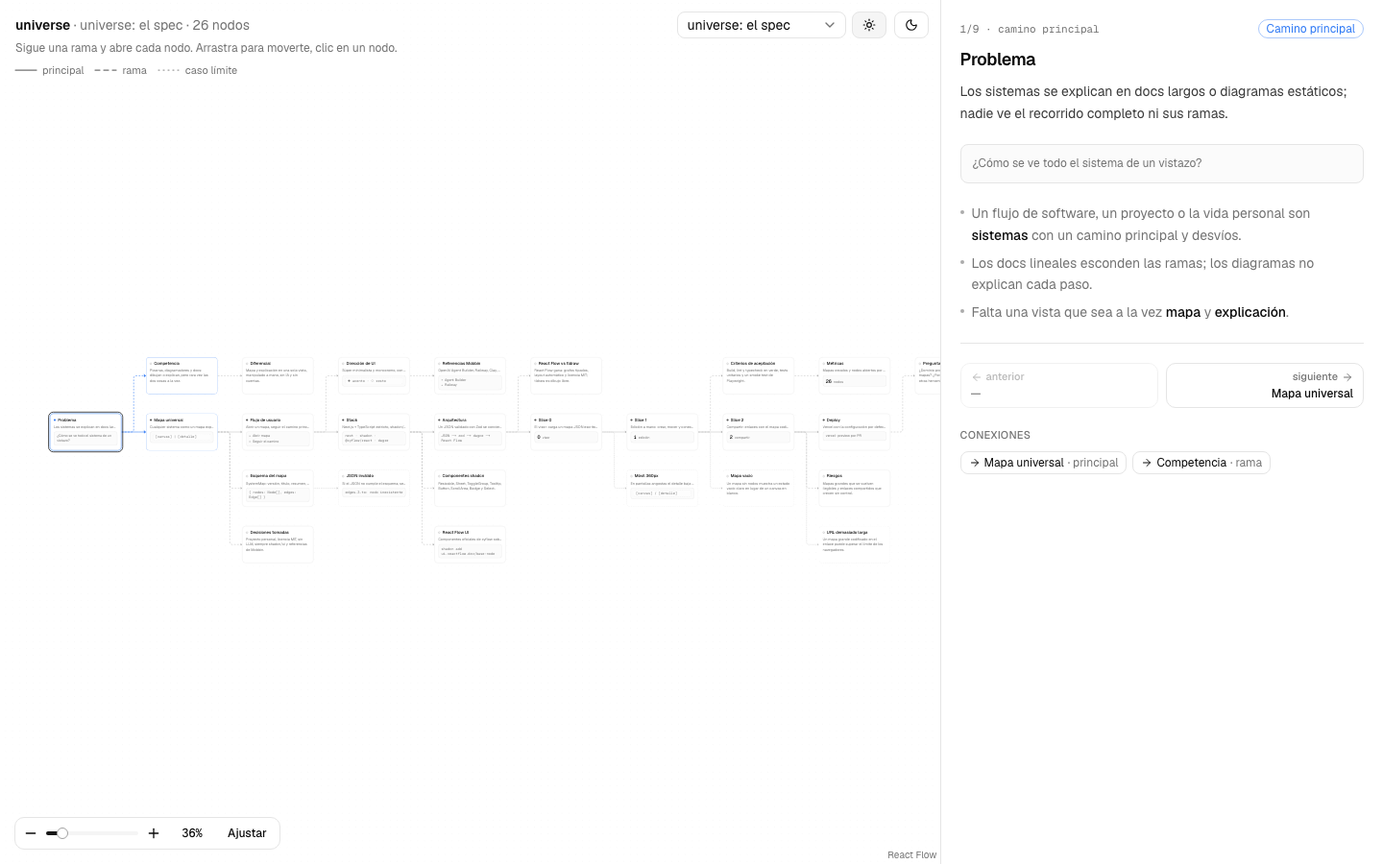
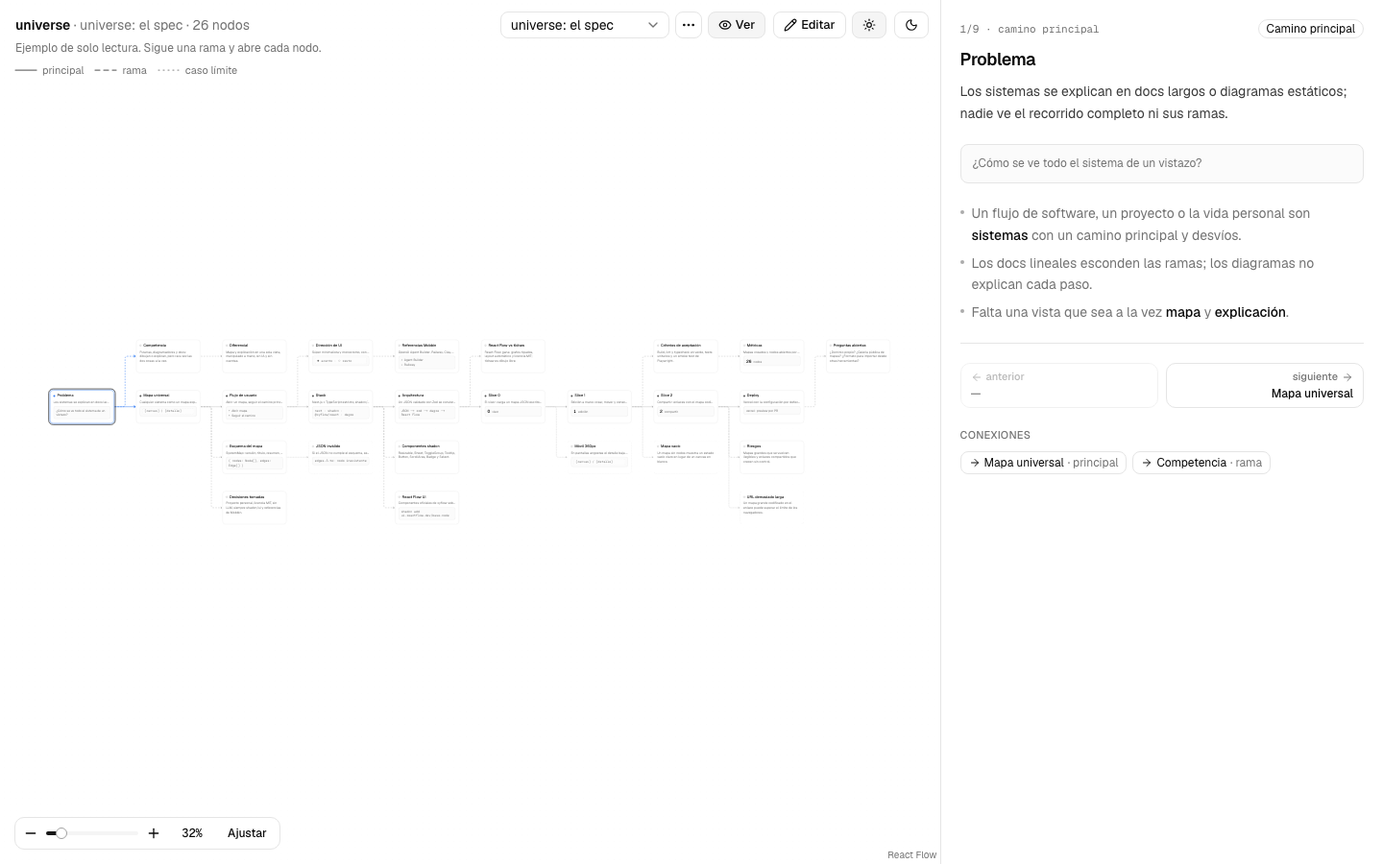
Docs: slice 1 in README, roadmap, checks and ledger; regenerate screenshots
Roadmap: slice 1 done; slice 2 is share (compressed URL), JSON import/export
and PNG export; the command palette moves to post-MVP.

diff --git a/docs/checks.md b/docs/checks.md
@@ -1,17 +1,20 @@
 # Checks
 
-Último registro: 2026-10-23, rama `slice-0-viewer` tras los arreglos de la revisión ronda 1 (HEAD `28f0eaa` más docs), macOS (arm64), Node v24.19.0, pnpm 11.22.0. Ejecutado desde un árbol limpio (`rm -rf .next test-results`), en este orden.
+Último registro: 2026-10-26, rama `slice-1-editor` (HEAD `170c2ac` más docs), macOS (arm64), Node v26.7.0, pnpm 11.22.0. Ejecutado desde un árbol limpio (`rm -rf .next test-results`), en este orden.
 
 | # | Comando | Resultado |
 | --- | --- | --- |
 | 0 | `pnpm install --frozen-lockfile` | ✅ exit 0, lockfile al día |
 | 1 | `pnpm typecheck` (`next typegen && tsc --noEmit`) | ✅ exit 0, sin errores |
 | 2 | `pnpm lint` (`eslint`) | ✅ exit 0, sin warnings |
-| 3 | `pnpm test` (`vitest run`) | ✅ 4 archivos, 32 tests pasan |
+| 3 | `pnpm test` (`vitest run`) | ✅ 6 archivos, 69 tests pasan (antes 32) |
 | 4 | `pnpm build` (`next build`) | ✅ exit 0, `/` prerenderizada como estática |
-| 5 | `PLAYWRIGHT_BROWSERS_PATH=.playwright-browsers pnpm test:e2e` (`playwright test`, sobre `next start`) | ✅ 4 tests pasan |
+| 5 | `E2E_PORT=3110 PLAYWRIGHT_BROWSERS_PATH=.playwright-browsers pnpm test:e2e` (`playwright test`, sobre `next start`) | ✅ 9 tests pasan (4 del visor, 5 del editor) |
 | 6 | Colores hardcodeados: `grep -rnE '#[0-9a-fA-F]{3,8}\b\|rgba?\(\|oklch\(\|hsl\(' src \| grep -v globals.css` | ✅ sin resultados |
-| 7 | `git status --short` después de todos los checks | ✅ vacío para archivos versionados: los tests ya no tocan `docs/screenshots/` |
+| 7 | `grep -rnE ":\s*any\b\|as any\|@ts-ignore\|@ts-expect-error\|eslint-disable" src tests` | ✅ sin resultados |
+| 8 | `git status --short` después de todos los checks | ✅ vacío para archivos versionados: las capturas del e2e van a `test-results/` |
+
+El puerto 3100 de esta máquina lo usa otro servicio, así que el e2e corrió con `E2E_PORT=3110` (O-N4). Sin la variable usa 3100.
 
 ## Salida
 
@@ -23,46 +26,59 @@ Generating route types...
 $ eslint
 
 $ vitest run
- Test Files  4 passed (4)
-      Tests  32 passed (32)
+ Test Files  6 passed (6)
+      Tests  69 passed (69)
 
 $ next build
 ▲ Next.js 16.4.2 (Turbopack)
-✓ Compiled successfully in 1658ms
-  Finished TypeScript in 1378ms ...
-✓ Generating static pages using 5 workers (4/4) in 247ms
+✓ Compiled successfully in 1521ms
 Route (app)
 ┌ ○ /
 └ ○ /_not-found
 ○  (Static)  prerendered as static content
 
 $ playwright test
-[WebServer] $ next start --port 3100
-Running 4 tests using 1 worker
-  ✓  1 [chromium] › tests/e2e/smoke.spec.ts:23:7 › desktop › loads, selects nodes, navigates and toggles dark mode (3.0s)
-  ✓  2 [chromium] › tests/e2e/smoke.spec.ts:75:7 › desktop › switches to the Share modal map (1.1s)
-  ✓  3 [chromium] › tests/e2e/smoke.spec.ts:86:7 › desktop › keyboard: header controls first, visible node focus, Enter/Space select (904ms)
-  ✓  4 [chromium] › tests/e2e/smoke.spec.ts:129:7 › mobile › has no horizontal overflow at 360px and keeps navigation (1.4s)
-  4 passed (7.3s)
+[WebServer] $ next start --port 3110
+  ✓  1 smoke.spec.ts › desktop › loads, selects nodes, navigates and toggles dark mode (2.7s)
+  ✓  2 editor.spec.ts › editor (desktop) › create a map, add 3 nodes, connect, edit, persist, undo/redo and delete (3.1s)
+  ✓  3 smoke.spec.ts › desktop › switches to the Share modal map (1.1s)
+  ✓  4 editor.spec.ts › editor (desktop) › builds a 10-node map with main path and branches that survives a reload (1.6s)
+  ✓  5 smoke.spec.ts › desktop › keyboard: header controls first, visible node focus, Enter/Space select (1.0s)
+  ✓  7 smoke.spec.ts › mobile › has no horizontal overflow at 360px and keeps navigation (1.3s)
+  ✓  6 editor.spec.ts › editor (desktop) › examples stay read-only; editing one makes a copy (2.1s)
+  ✓  8 editor.spec.ts › editor (desktop) › keyboard: create, move, delete and undo without a mouse (308ms)
+  ✓  9 editor.spec.ts › editor (mobile) › edits from the Sheet without horizontal overflow (1.1s)
+  9 passed (9.0s)
 ```
 
 ## Qué cubre cada test
 
 **Unit (vitest, `tests/unit/`)**
 
-- `schema.test.ts`: acepta un mapa válido y los dos mapas de ejemplo; rechaza `summary` > 140, tipos de arista/carril desconocidos, aristas a nodos inexistentes, ids duplicados, versión incorrecta y entradas que no son objetos. Estructura del camino principal: rechaza nodos `main` sin encadenar, dos cadenas separadas, bifurcaciones, dos aristas `main` entrantes, ciclos, aristas `main` que tocan nodos `branch`, auto-lazos e ids vacíos; recorta espacios en ids; acepta un solo nodo principal con ramas.
+- `schema.test.ts`: acepta un mapa válido y los dos mapas de ejemplo; rechaza `summary` > 140, tipos de arista/carril desconocidos, aristas a nodos inexistentes, ids duplicados, versión incorrecta y entradas que no son objetos. Estructura del camino principal: rechaza nodos `main` sin encadenar, dos cadenas separadas, bifurcaciones, dos aristas `main` entrantes, ciclos, aristas `main` que tocan nodos `branch`, auto-lazos e ids vacíos; recorta espacios en ids; acepta un solo nodo principal con ramas. Slice 1: rechaza claves desconocidas (`.strict()`), errores genéricos en español, título en blanco con mensaje propio, mapa vacío válido y mapa con nodos pero sin `main` inválido (O-N5), mensajes del camino principal con títulos y borradores (`parseDraftMap`) que saltan las reglas del grafo pero no las de campo.
+- `editor.test.ts`: el reductor `applyEdit` no muta la entrada; crear (suelto o conectado), editar campos y vista previa, cambiar de carril (las aristas `main` pasan a `branch`), mover con redondeo, borrar un nodo uniendo el camino principal, promoción a `main`, rechazo de auto-lazos, nodos inexistentes y conexiones duplicadas, editar y borrar aristas, título del mapa. Ayudas: tipo sugerido, ids legibles y únicos, primer nodo `main`, hueco libre y "Añadir paso siguiente". Historial: deshacer/rehacer, una edición nueva borra el rehacer, ediciones con la misma clave se agrupan, límite de 100 pasos.
+- `store.test.ts`: arranca en el primer ejemplo; crear mapa vacío en modo edición; los ejemplos nunca cambian y editarlos crea una copia con posiciones fijas; deshacer/rehacer de crear, editar, mover, conectar y borrar (con confirmación) paso a paso; escribir en un campo es un solo paso; la arista seleccionada sigue a sus extremos; borrar sin conexiones es inmediato; renombrar, duplicar y borrar mapas; cambiar de mapa reinicia selección e historial; persistencia en localStorage (mapa, mapa abierto y modo) y descarte de mapas guardados inválidos.
 - `layout.test.ts`: el camino principal queda ordenado de izquierda a derecha en una sola fila (ambos mapas); las ramas quedan fuera de esa fila y ningún par de tarjetas se superpone; los casos límite que salen del camino principal van abajo; las ramas arrancan a la derecha de su ancla; se respetan las posiciones explícitas.
 - `navigation.test.ts`: anterior/siguiente en el camino principal (incluye extremos), en ramas (anterior = padre, siguiente = siguiente nodo principal tras el ancla), casos límite anidados, rama del último nodo, conexiones entrantes y salientes, etiquetas de posición ("3/9 · camino principal").
 - `markdown.test.ts`: párrafos, listas y marcas en línea.
 
-**Smoke (Playwright, `tests/e2e/smoke.spec.ts`)**
+**Smoke del visor (Playwright, `tests/e2e/smoke.spec.ts`)**
 
 - Escritorio 1440×900: carga con 26 nodos, encabezado, pista y lectura de zoom en %; arranca en "Problema" (1/9); clic en un nodo actualiza el panel; siguiente/anterior; navegación desde una rama; chip de conexión; modo oscuro (clase `dark` en `<html>`) y vuelta a claro; cambio al mapa "Share modal" (títulos en español).
-- Teclado (escritorio): orden de tabulación "Saltar al detalle" → selector de mapa → tema → primer nodo; el nodo enfocado tiene `aria-label` ("Problema, 1/9 · camino principal") y `outline` visible; Enter y Espacio seleccionan; la región viva anuncia solo título y posición; "Saltar al detalle" lleva el foco al panel; el thumb del slider se llama "Zoom".
-- Móvil 360×740: `scrollWidth <= clientWidth` al cargar, tras navegar y con el Sheet de detalle abierto; zoom, Ajustar, tema, selector, anterior/siguiente y Detalle miden ≥ 40 px de alto; el botón "Cerrar" del Sheet no se monta sobre el badge.
-- Capturas: por defecto en `test-results/screenshots/` (ignorado). Con `UPDATE_SCREENSHOTS=1` se escriben en `docs/screenshots/`: `desktop-light.png`, `desktop-dark.png`, `desktop-keyboard-focus.png`, `mobile.png`, `mobile-sheet.png`. Se regeneraron así una vez en esta ronda.
+- Teclado (escritorio): orden de tabulación "Saltar al detalle" → selector de mapa → menú del mapa → Ver/Editar → tema → primer nodo; el nodo enfocado tiene `aria-label` ("Problema, 1/9 · camino principal") y `outline` visible; Enter y Espacio seleccionan; la región viva anuncia solo título y posición; "Saltar al detalle" lleva el foco al panel y, con el panel desbordado, PageDown lo desplaza (O-N3); el enlace conserva su padding al enfocarse (O-N1); el thumb del slider se llama "Zoom".
+- Móvil 360×740: `scrollWidth <= clientWidth` al cargar, tras navegar y con el Sheet de detalle abierto; zoom, Ajustar, tema, selector, anterior/siguiente y Detalle miden ≥ 40 px de alto; el botón "Cerrar" del Sheet no se monta sobre el badge; los chips de conexión del Sheet miden ≥ 40 px.
+
+**Editor (Playwright, `tests/e2e/editor.spec.ts`)**
+
+- Crear un mapa, añadir 3 nodos (estado vacío, "Añadir paso siguiente" y "Añadir nodo"), conectar arrastrando un conector y eligiendo "caso límite", editar con validación en vivo (resumen de 141 caracteres y título vacío muestran el mensaje y no se guardan), vista previa de código, deshacer/rehacer con teclado y barra, mover arrastrando (un paso de deshacer), recargar (el mapa guardado es idéntico y sigue en modo edición), borrar un nodo con 2 conexiones (confirmación) y deshacerlo, editar etiqueta y borrar una arista (aparece el problema "«Validar»"), modo oscuro.
+- Un mapa de 10 nodos (7 principales y 3 ramas) sin problemas: tras recargar, el JSON guardado y las posiciones en pantalla son idénticos; en modo Ver la rama dice "rama de Paso 3".
+- Los ejemplos no cambian: Editar crea "(copia)" y avisa; el ejemplo sigue con "Problema"; renombrar y borrar la copia desde el menú.
+- Solo teclado: Enter en "Crear el primer nodo" y en "Añadir nodo", foco visible en el nodo, flechas lo mueven 5 px, Suprimir lo borra, ⌘/Ctrl+Z lo restaura y las dos flechas se deshacen como un paso.
+- Móvil 360×740: Editar sobre el ejemplo, sin overflow horizontal, botones de edición ≥ 40 px, edición desde el Sheet y añadir/deshacer un nodo.
+- Capturas: por defecto en `test-results/screenshots/` (ignorado). Con `UPDATE_SCREENSHOTS=1` se escriben en `docs/screenshots/`: `desktop-light.png`, `desktop-dark.png`, `desktop-keyboard-focus.png`, `mobile.png`, `mobile-sheet.png`, `editor-empty.png`, `editor-desktop.png`, `editor-dark.png`, `editor-ten-nodes.png`, `editor-mobile-sheet.png`. Se regeneraron así una vez en el slice 1 (cambió la vista inicial por O8 y el encabezado).
 
 ## Notas
 
 - `pnpm test:e2e` necesita Chromium para Playwright: `pnpm exec playwright install chromium`. En esta máquina se instaló dentro del repo (`PLAYWRIGHT_BROWSERS_PATH=.playwright-browsers`, ignorado por git) para no escribir fuera de la carpeta del proyecto.
 - `pnpm test:e2e` sirve el build de producción con `next start`, así que hay que correr `pnpm build` antes.
+- `E2E_PORT` cambia el puerto del e2e (por defecto 3100).

diff --git a/docs/ledger.md b/docs/ledger.md
@@ -75,3 +75,42 @@ Revisión independiente en `~/dev/universe-review/REVIEW-round-1.md`: cambios re
 
 `pnpm install --frozen-lockfile`, `typecheck`, `lint`, `test` (32/32), `build` y `test:e2e` (4/4) en verde desde un árbol limpio; grep de colores vacío; `git status` limpio tras los tests. Detalle en [checks.md](checks.md).
 
+
+## 2026-10-26: Slice 1, editor (rama `slice-1-editor`)
+
+### Qué se hizo
+
+- **Núcleo de edición** (`src/lib/editor.ts`): `applyEdit`, un reductor puro con acciones para crear, editar, mover, borrar y conectar nodos, editar y borrar aristas y editar el mapa. Historial de deshacer/rehacer con límite de 100 pasos y agrupación por campo (escribir un título es un solo paso).
+- **Store** (`src/store/map-store.ts`): "Mis mapas" en localStorage con `zustand/persist` (clave `universe`), validados con Zod al leerlos. Crear, renombrar, duplicar y borrar. Modo Ver/Editar, selección de nodo o arista, confirmación de borrado e historial del mapa abierto.
+- **UI**: interruptor Ver/Editar, menú del mapa (`⋯`), selector con grupos "Mis mapas" y "Ejemplos (solo lectura)", barra de edición (añadir, deshacer, rehacer), estado vacío, diálogo de tipo de conexión, confirmación de borrado e inspector (nodo, arista y mapa) con validación en vivo y lista de problemas del grafo. En móvil, el inspector va en el Sheet.
+- **Componentes shadcn nuevos**: dialog, alert-dialog, dropdown-menu, input, textarea y label. El overlay usa `bg-foreground/10` y "Close" pasó a "Cerrar".
+- **Limpieza de la revisión**: O1 (`z.config(z.locales.es())` y mensajes propios), O2 (`z.strictObject`), O3 (`src/app/error.tsx` con `retry`, la API de Next 16), O5 (fuera `NodeContext.parent` y los subcomponentes sin uso de `base-node`), O7 (la UI se monta tras leer localStorage: no hay flash del layout de escritorio en móvil), O8 (la vista inicial y "Ajustar" encuadran todo el mapa, ramas incluidas), O9 (acento solo en la selección y sus aristas, ya no en vecinos ni en el badge), O12 (vista previa de código con `whitespace-pre-wrap` y `line-clamp-2`), O-N1 (padding del enlace de salto), O-N2 (descripciones de aristas, nodos movidos y aristas en español), O-N3 (el enlace de salto enfoca el viewport que hace scroll), O-N4 (`E2E_PORT`), O-N5 (ver decisiones) y chips de conexión de 40 px en móvil.
+- **Tests**: 69 unitarios (antes 32) y 9 e2e (antes 4). Ver [checks.md](checks.md).
+
+### Decisiones
+
+- **Los ejemplos no se editan nunca.** Pulsar "Editar" sobre un ejemplo crea "… (copia)" en "Mis mapas" y abre la copia en modo edición, con un aviso por `role="status"`. Al duplicar se fijan las posiciones del layout automático, así arrastrar un nodo no mueve a los demás.
+- **Los borradores pueden incumplir las reglas del grafo.** Insertar un paso en medio del camino principal pasa por estados inválidos (un nodo `main` suelto), y bloquearlos haría imposible editar. Por eso hay dos esquemas: `SystemMapDraftSchema` (campos y tipos) para guardar y `SystemMapSchema` (más las reglas del grafo) para importar y para los ejemplos. El editor lista los problemas arriba del panel. Los campos (título, resumen ≤ 140, contenido de la vista previa) sí se validan antes de guardar: un valor inválido se queda en el campo con su mensaje y no llega al mapa.
+- **Ediciones que mantienen el camino principal coherente**: una arista `main` convierte sus extremos en `main`; pasar un nodo a "Rama" convierte sus aristas `main` en `branch`; borrar un nodo del medio une su anterior con su siguiente. "Añadir paso siguiente" continúa el camino desde su último nodo o crea una rama.
+- **O-N5**: un mapa sin nodos es válido (es el estado vacío); un mapa con nodos necesita al menos uno `main`.
+- **O8**: se eligió encuadrar todo el mapa. "universe: el spec" arranca al ~32% en escritorio con "Preguntas abiertas" visible. En canvas angostos (< 640 px) se mantiene el ajuste a los 3 primeros nodos principales.
+- **Deshacer**: el historial es por sesión y por mapa; se reinicia al recargar o cambiar de mapa. Los atajos ⌘Z / ⇧⌘Z (Ctrl+Z / Ctrl+Shift+Z / Ctrl+Y) no actúan dentro de campos de texto, donde manda el deshacer nativo. Mover con flechas agrupa las pulsaciones seguidas en un paso; cada arrastre es un paso.
+- **Ids legibles**: los nodos nuevos reciben un id a partir del título inicial ("nuevo-nodo", "nuevo-nodo-2"); renombrar no cambia el id, para no romper aristas. Los mensajes del editor nombran los nodos por su título.
+- **Conexiones**: no se permiten auto-lazos, ni conexiones duplicadas o inversas entre el mismo par. El diálogo propone el tipo: "principal" si extiende la cadena, si no "rama".
+- **Hidratación**: `persist` con `skipHydration` y `rehydrate()` al montar; hasta entonces se muestra una pantalla neutra. Esto resuelve O7 y evita ver el ejemplo un instante antes del mapa guardado. React Flow se monta cuando su contenedor ya tiene tamaño (evita el warning #004 y un ajuste inicial con tamaño 0).
+- **Handles fuera de la tarjeta**: el `overflow-hidden` de la tarjeta recortaba la mitad del conector y hacía que al arrastrar se moviera el nodo en lugar de conectar.
+
+### Problemas encontrados y resueltos
+
+1. Al borrar una arista, la selección (un índice) pasaba a señalar otra arista, y deshacer mostraba el editor de una arista distinta. Ahora la selección sigue a sus extremos (`from → to`) tras cada edición y cada deshacer. Lo cubren un test unitario y el e2e.
+2. React Flow avisaba (#015) de que no podía arrastrar nodos sin medir: como son controlados, ahora se pasan con `measured`.
+3. Arrastrar desde el conector movía la tarjeta (conector recortado). Se resolvió sacando los `Handle` del contenedor recortado.
+4. `zustand/persist` captura `localStorage` al cargar el módulo; en vitest el falso se instala con `vi.hoisted`.
+
+### Temas abiertos
+
+- Mobbin se consultó para el patrón del editor (inspector con etiquetas a la derecha en AirOps y Klaviyo, Edit/Playground en fal, barra flotante con + y deshacer). No se guardaron colecciones.
+- Conectar arrastrando es solo con puntero; con teclado se conecta desde el panel ("Conectar con…"), que también es la vía en móvil.
+- El historial no sobrevive a la recarga (pasa a post-MVP).
+- Los nodos nuevos no se colocan con dagre: van al centro visible (o a la derecha o debajo del nodo de origen) en el primer hueco libre.
+- Importar/exportar JSON, enlaces para compartir y exportar PNG quedan para el slice 2.

diff --git a/README.md b/README.md
@@ -4,13 +4,26 @@ Mapas universales de sistemas: un canvas minimalista de nodos conectados, cada u
 
 Mapea cualquier sistema (flujos de software, proyectos, vida personal) como un mapa explorable. A la izquierda, un canvas infinito con mini tarjetas conectadas por flechas: el camino principal va de izquierda a derecha y las ramas (errores, casos límite) salen hacia arriba y abajo. A la derecha, el detalle del nodo seleccionado: posición en el camino, explicación, detalles, anterior/siguiente y conexiones.
 
-Sin IA, sin backend, sin login: todo corre en el navegador.
+Sin IA, sin backend, sin login: todo corre en el navegador. Los mapas se editan a mano y se guardan en este navegador (localStorage).
 
 ![universe en modo claro](docs/screenshots/desktop-light.png)
 
-| Oscuro | Móvil (360px) |
-| --- | --- |
-| ![modo oscuro](docs/screenshots/desktop-dark.png) | ![móvil](docs/screenshots/mobile.png) |
+| Edición | Oscuro | Móvil (360px) |
+| --- | --- | --- |
+| ![editor](docs/screenshots/editor-desktop.png) | ![modo oscuro](docs/screenshots/desktop-dark.png) | ![móvil](docs/screenshots/mobile.png) |
+
+## Editar
+
+- **Ver / Editar** (arriba a la derecha) cambia de modo. En **Ver** el canvas queda igual de limpio que el visor.
+- **Mis mapas**: el menú `⋯` crea un mapa nuevo, lo duplica, lo renombra o lo borra (pide confirmación). Se guardan en localStorage y vuelven tal cual al recargar.
+- **Ejemplos de solo lectura**: los mapas incluidos no se modifican nunca. Al pulsar **Editar** sobre uno se crea una copia editable ("… (copia)").
+- **Mapa vacío**: invita a crear el primer nodo, que inicia el camino principal.
+- **Nodos**: *Añadir nodo* (barra de abajo a la derecha) o *Añadir paso siguiente* en el panel, que continúa el camino principal desde su último nodo o crea una rama. Arrastra una tarjeta para moverla; la posición se guarda en `position`.
+- **Conexiones**: arrastra desde el punto derecho de una tarjeta hasta otra y elige el tipo (principal, rama o caso límite). También desde el panel: *Conectar con…*. Clic en una flecha para cambiar su tipo o etiqueta.
+- **Panel**: título, resumen (≤ 140, con contador), detalles en markdown, carril y vista previa, validados en vivo con el esquema Zod y mensajes en español. Un valor inválido no se guarda hasta corregirlo. Los problemas del grafo (p. ej. un nodo principal suelto) se listan arriba del panel; el mapa se guarda igual.
+- **Borrar**: botón en el panel o Suprimir sobre el nodo o la flecha enfocados. Si el nodo tiene conexiones pide confirmación. Al borrar un nodo del medio del camino principal se unen su anterior y su siguiente.
+- **Deshacer / rehacer**: ⌘Z y ⇧⌘Z (Ctrl+Z, Ctrl+Shift+Z o Ctrl+Y en Windows y Linux) o los botones de la barra. Cubren crear, editar, mover, conectar y borrar. Escribir en un campo cuenta como un solo paso. El historial es por sesión: se reinicia al recargar o cambiar de mapa.
+- **Móvil**: en modo edición la barra inferior abre el panel en un Sheet.
 
 ## Desarrollo
 
@@ -22,11 +35,12 @@ pnpm lint
 pnpm typecheck    # tsc --noEmit
 pnpm test         # vitest: esquema, layout y navegación
 pnpm exec playwright install chromium   # una vez
-pnpm build && pnpm test:e2e   # playwright smoke test (usa el build de producción)
+pnpm build && pnpm test:e2e   # playwright: smoke del visor y del editor (usa el build de producción)
+E2E_PORT=3110 pnpm test:e2e   # si el puerto 3100 está ocupado
 UPDATE_SCREENSHOTS=1 pnpm test:e2e   # regenera docs/screenshots (sin la variable, van a test-results/)
 ```
 
-Teclado: Tab recorre "Saltar al detalle", el selector de mapa y el tema, y luego los nodos del canvas (con anillo de foco); Enter o Espacio abren el nodo en el detalle.
+Teclado: Tab recorre "Saltar al detalle", el selector de mapa, el menú del mapa, Ver/Editar y el tema, y luego los nodos del canvas (con anillo de foco); Enter o Espacio abren el nodo en el detalle. En modo edición: flechas mueven el nodo enfocado (Shift para pasos largos), Suprimir lo borra, Enter sobre una flecha la abre en el panel, y ⌘Z / ⇧⌘Z deshacen y rehacen fuera de los campos de texto.
 
 Stack: Next.js (App Router) + TypeScript estricto, shadcn/ui + Tailwind 4, `next-themes`, `@xyflow/react` + React Flow UI, dagre, zustand y Zod.
 
@@ -66,10 +80,14 @@ type Edge = {
 
 Reglas que valida el esquema además de los tipos:
 
-- Ids únicos y no vacíos.
+- Sin claves desconocidas: un typo como `"previw"` es un error, no se ignora.
+- Ids únicos y no vacíos; títulos no vacíos.
 - Aristas que apuntan a nodos existentes y sin auto-lazos (`from` ≠ `to`).
 - `summary` de 140 caracteres como máximo.
 - **El camino principal es una sola cadena**: las aristas `main` solo unen nodos `track: "main"`; cada nodo principal tiene como mucho una arista `main` entrante y una saliente; hay un único inicio y todos los nodos principales se alcanzan desde él. Para salir del camino principal hacia otro lado usa una arista `branch` o `edge_case`. Así el visor nunca dibuja tarjetas superpuestas en la fila principal.
+- Un mapa sin nodos es válido (estado vacío); con nodos, necesita al menos uno `main`.
+
+Los mensajes de error están en español. Los mapas de "Mis mapas" se guardan aunque incumplan las reglas del grafo (un borrador a medias sobrevive a la recarga); el editor muestra esos problemas en el panel.
 
 Cómo se lee un mapa:
 
@@ -96,7 +114,7 @@ Ejemplo mínimo:
 }
 ```
 
-Los mapas de ejemplo están en [`src/maps/`](src/maps/).
+Los mapas de ejemplo están en [`src/maps/`](src/maps/). Lo que se guarda en localStorage (clave `universe`) es `{ userMaps: { id, map: SystemMap, updatedAt }[], mapId, mode }`.
 
 ## Documentación del proyecto
 

diff --git a/docs/roadmap.md b/docs/roadmap.md
@@ -1,6 +1,6 @@
 # Roadmap
 
-## Slice 0: visor ✅ (este PR)
+## Slice 0: visor ✅ (PR #1)
 
 - Carga un mapa JSON escrito a mano, validado con Zod.
 - Layout automático con dagre: camino principal de izquierda a derecha, ramas arriba y abajo.
@@ -10,35 +10,30 @@
 - Modo claro/oscuro. Móvil: barra inferior + Sheet de detalle.
 - Dos mapas de ejemplo: "universe: el spec" y "Share modal".
 
-## Slice 1: edición
+## Slice 1: edición ✅ (este PR)
 
-- Crear, editar, mover, conectar y borrar nodos a mano.
-- Editar título, resumen, detalles y vista previa desde el panel.
-- Persistencia en localStorage.
+- Modo Ver / Editar; los ejemplos son de solo lectura y se duplican para editarlos.
+- Crear, editar, mover (posición en `position`), conectar (arrastrando, con tipo) y borrar nodos y aristas; confirmación al borrar un nodo con conexiones.
+- Panel de edición: título, resumen (≤ 140), detalles, carril y vista previa, con validación Zod en vivo y mensajes en español; problemas del grafo listados.
+- Deshacer / rehacer (⌘Z, ⇧⌘Z; Ctrl en otras plataformas) para toda edición.
+- "Mis mapas" en localStorage: crear, renombrar, duplicar y borrar.
 - Estado vacío para mapas nuevos.
-
-### Pendientes de la revisión del slice 0 (ronda 1, opcionales)
-
-De `REVIEW-round-1.md`. B1, D1–D6, O4, O6, O10 y O11 se resolvieron en el PR #1; estos quedan para el slice 1:
-
-- **O1. Mensajes de Zod en español**: los errores genéricos salen en inglés. `z.config(z.locales.es())` o un `errorMap` propio antes de importar JSON (slice 2).
-- **O2. Claves desconocidas**: `.strict()` en `NodeSchema`, `EdgeSchema` y `PreviewSchema` para que un typo como `"previw"` no desaparezca en silencio.
-- **O3. Error boundary**: `src/app/error.tsx` cuando llegue la carga de JSON del usuario.
-- **O5. Código muerto**: `NodeContext.parent` (igual a `prev`), tipo `MapEdge` sin uso, subcomponentes de `base-node` sin uso.
-- **O7. Flash del layout de escritorio en móvil**: el snapshot del servidor de `useIsMobile` es `false`; resolver con CSS (`md:`) o un esqueleto neutro hasta montar.
-- **O8. Vista inicial en escritorio**: arranca al ~36% y corta la rama "Preguntas abiertas". Incluir las ramas en el ajuste o arrancar centrado en el primer nodo a ≥ 75%.
-- **O9. Acento fuera de la selección**: los vecinos y el badge "Camino principal" usan el acento. Confirmar con el dueño o quitarlo del badge.
-- **O12. `NodePreview` de tipo code**: quitar `truncate` y dejar `whitespace-pre-wrap line-clamp-2 overflow-hidden`.
-- Áreas táctiles de los chips de conexión en el Sheet móvil (24 px): subirlas junto con O10 si se confirman en dispositivo.
+- Limpieza de la revisión del slice 0: O1, O2, O3, O5, O7, O8, O9, O12, O-N1 a O-N5 y chips de conexión de 40 px en móvil.
 
 ## Slice 2: compartir
 
-- Enlaces para compartir con el mapa codificado (y comprimido) en la URL.
-- Importar y exportar JSON.
-- Paleta de comandos.
+- Enlaces para compartir con el mapa codificado y comprimido en la URL.
+- Importar y exportar JSON (validado con `parseSystemMap`; el error boundary de `error.tsx` ya está).
+- Exportar PNG del canvas.
 
 ## Lanzamiento
 
 - Deploy a producción en Vercel (tras revisar los previews).
 - README con GIF, galería de mapas de ejemplo.
 - Anuncio público.
+
+## Después del MVP
+
+- Paleta de comandos.
+- Historial de deshacer persistente entre recargas.
+- Edición de varios nodos a la vez (selección múltiple).
